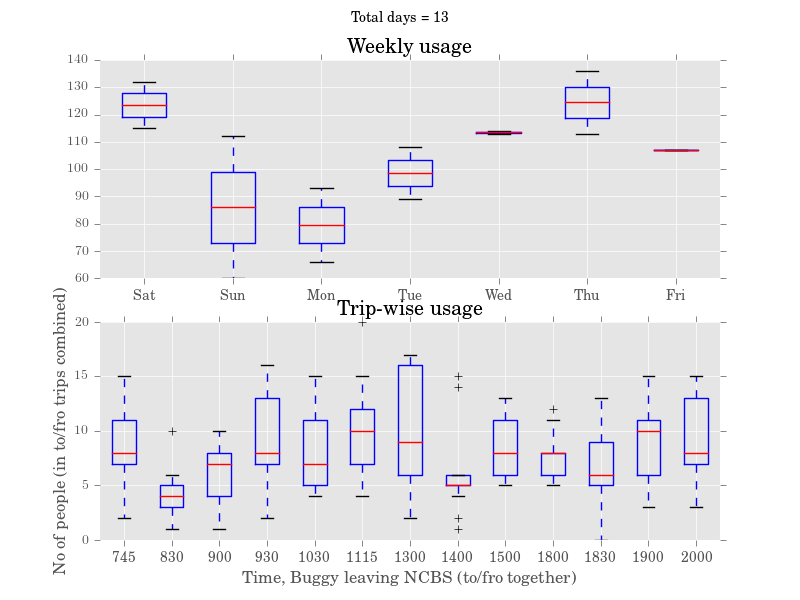
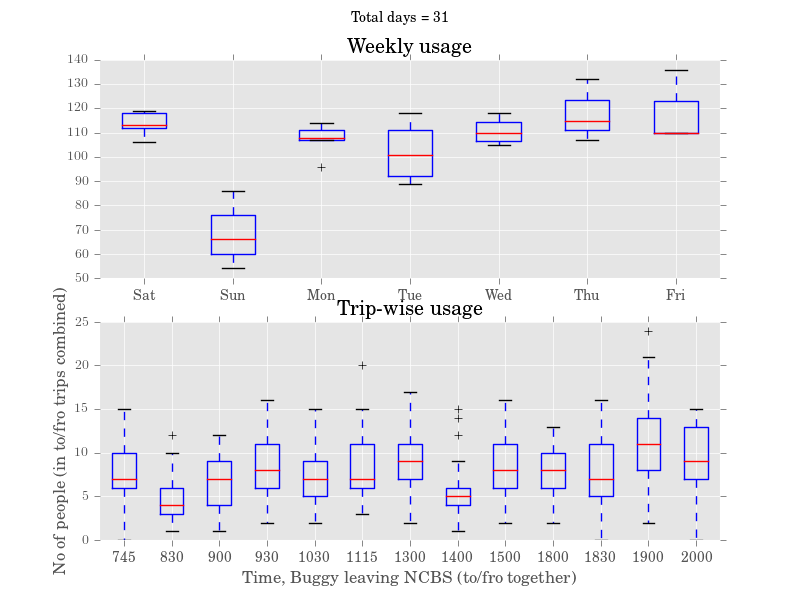
Fixed processing script and results.

diff --git a/NCBS/analyze.py b/NCBS/analyze.py
@@ -1,7 +1,9 @@
 import pandas 
+import datetime
 import numpy as np
 
 import matplotlib as mpl
+
 import matplotlib.pyplot as plt
 try:
     mpl.style.use( 'ggplot' )
@@ -11,39 +13,52 @@ mpl.rcParams['axes.linewidth'] = 0.1
 plt.rc('text', usetex=True)
 plt.rc('font', family='serif')
 
+from collections import defaultdict 
+daysData = defaultdict( list )
+
+def weekday( sheetname ):
+    day = sheetname[3:]
+    day = datetime.datetime.strptime( '2016-10-%s'%day, '%Y-%m-%d' )
+    dayName = day.strftime( "%a" )
+    return dayName
 
 
 def main( ):
     filename = './Buggy Usage in October 2016.xlsx'
     data = pandas.read_excel( filename, sheetname = None )
     newData = []
-    for sheet in data:
+    days = []
+    for sheet in sorted(data, key=lambda x: int(x[3:])):
         sheetData = data[sheet]
         count = sheetData['Count']
+        # If there was a buggy breakdown at any day. Do not count the day.
+        if '-' in count.values:
+            print( '[INFO] Breakdown on %s .. Not counting this day' %
+                    sheet )
+            continue
         # Add two entries together since buggy has to come back
         yvec = []
         for i in range( int(len(count) / 2) ):
             yvec.append( count[2*i] + count[2*i+1] )
+
+        daysData[ weekday( sheet ) ].append( np.sum(yvec) )
         newData.append( yvec )
     
     newData = np.vstack( newData )
 
-    dayData = []
-    for i in range( 7 ):
-        dayidata = newData[i::7]
-        dayData.append( np.sum( dayidata, axis = 1 ) )
-
     boxes = []
-    for i, vec  in enumerate(newData.T):
-        boxes.append( vec ) 
+    for day in [ 'Sat', 'Sun', 'Mon', 'Tue', 'Wed', 'Thu', 'Fri' 
+            ]:
+        print( 'Processing for day %s' % day )
+        boxes.append( daysData[ day ] ) 
 
     plt.subplot( 2, 1, 1 )
-    plt.boxplot( dayData )
+    plt.boxplot( boxes )
     plt.title( 'Weekly usage' )
     plt.xticks( range(1,8), ('Sat', 'Sun', 'Mon', 'Tue', 'Wed', 'Thu', 'Fri'))
 
     plt.subplot( 2, 1, 2 )
-    plt.boxplot( boxes )
+    plt.boxplot( newData )
     plt.xlabel( 'Time, Buggy leaving NCBS (to/fro together)' )
     plt.ylabel( 'No of people (in to/fro trips combined)' )
     plt.xticks( range(1,14), data['oct1']['Time'][::2] )
